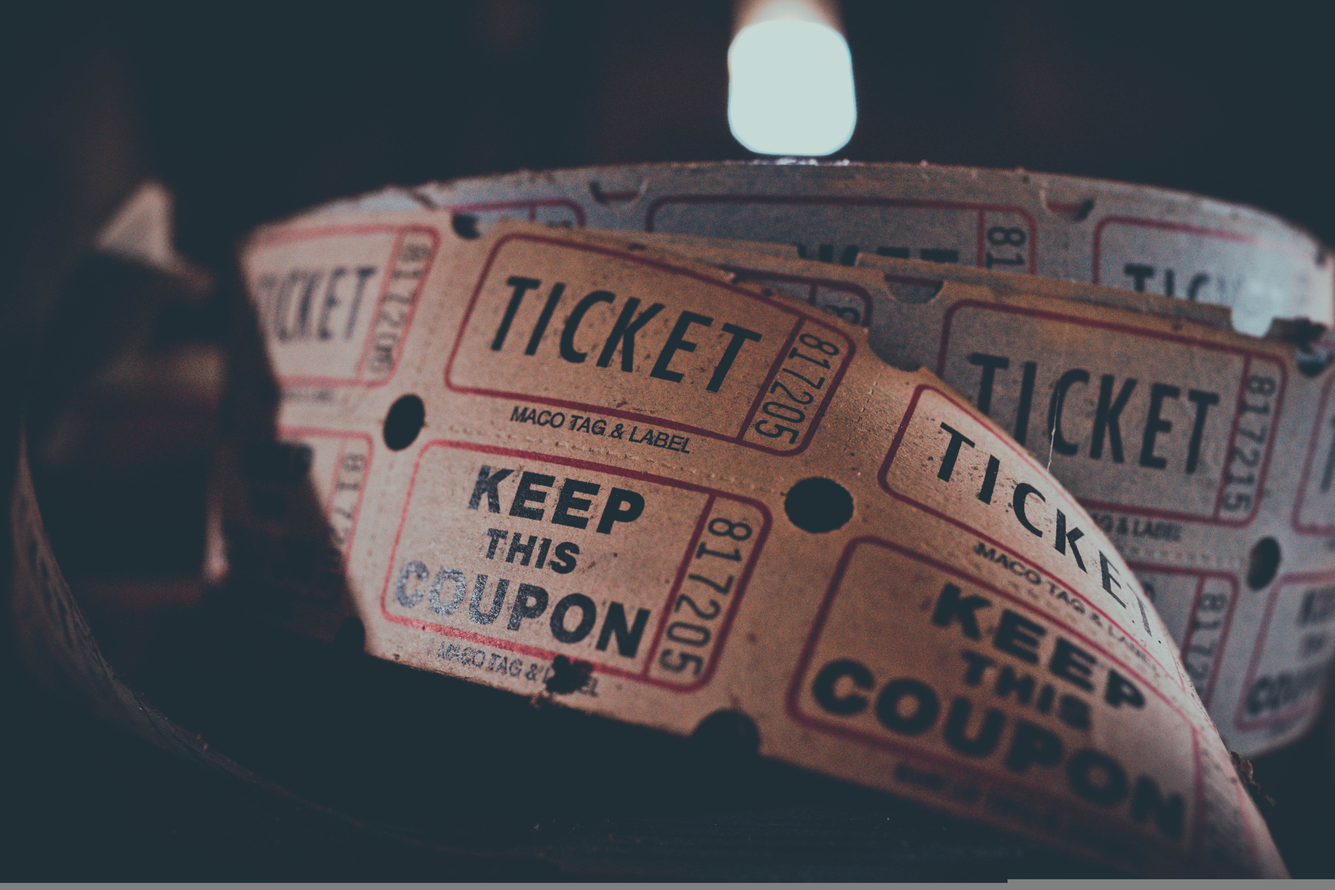
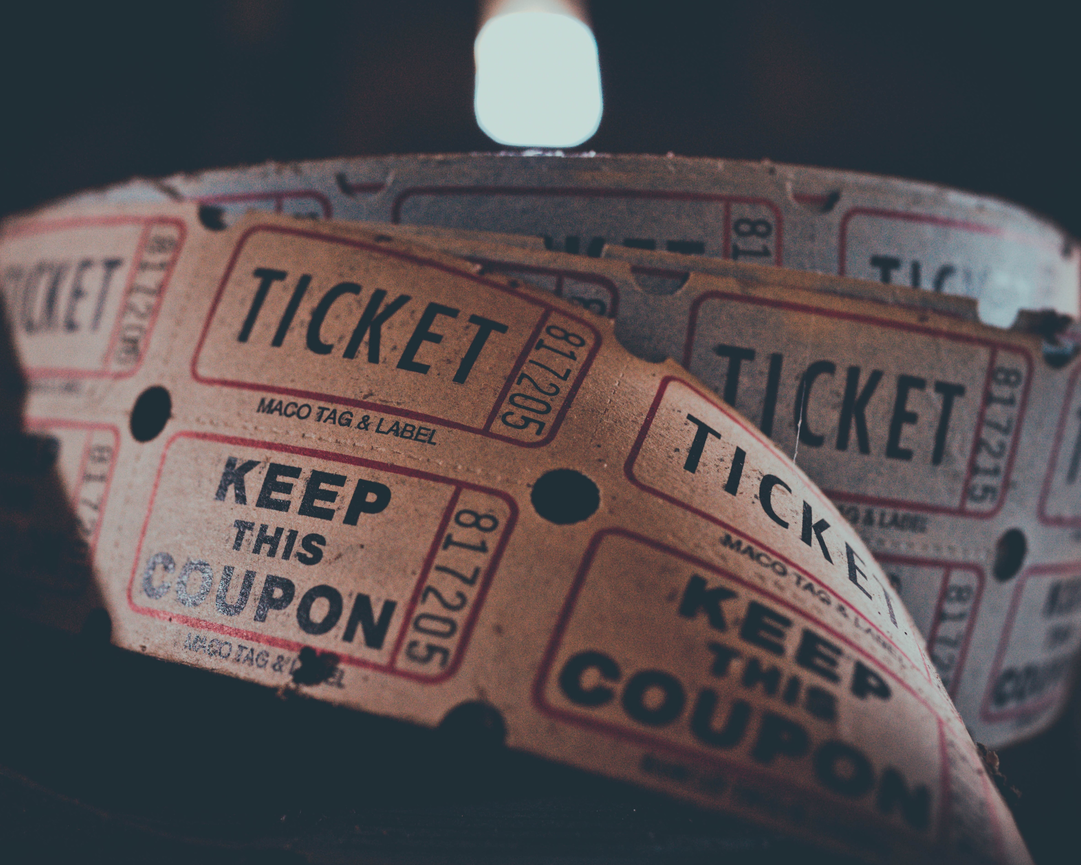
image changes

diff --git a/src/main/resources/css/style.css b/src/main/resources/css/style.css
@@ -38,20 +38,17 @@
 
 .eventHalf{
     -fx-background-image: url("/images/EditEvent.jpg");
-    -fx-background-size: 800 auto cover;
-    -fx-background-repeat: no-repeat;
-    -fx-background-position: center;
+    -fx-background-size: cover;
+    -fx-background-position-x: center;
 }
 
 .loginHalf{
     -fx-background-image: url("/images/Login.jpg");
-    -fx-background-size: 1000 auto cover;
-    -fx-background-repeat: no-repeat;
-    -fx-background-position: center;
+    -fx-background-size: cover;
+    -fx-background-position-x: center;
 }
 .event-view-top {
     -fx-background-image: url("/images/Event.jpg");
-    -fx-background-size: 300 auto cover;
-    -fx-background-repeat: no-repeat;
-    -fx-background-position: center;
+    -fx-background-size: cover;
+    -fx-background-position-x: center;
 }
